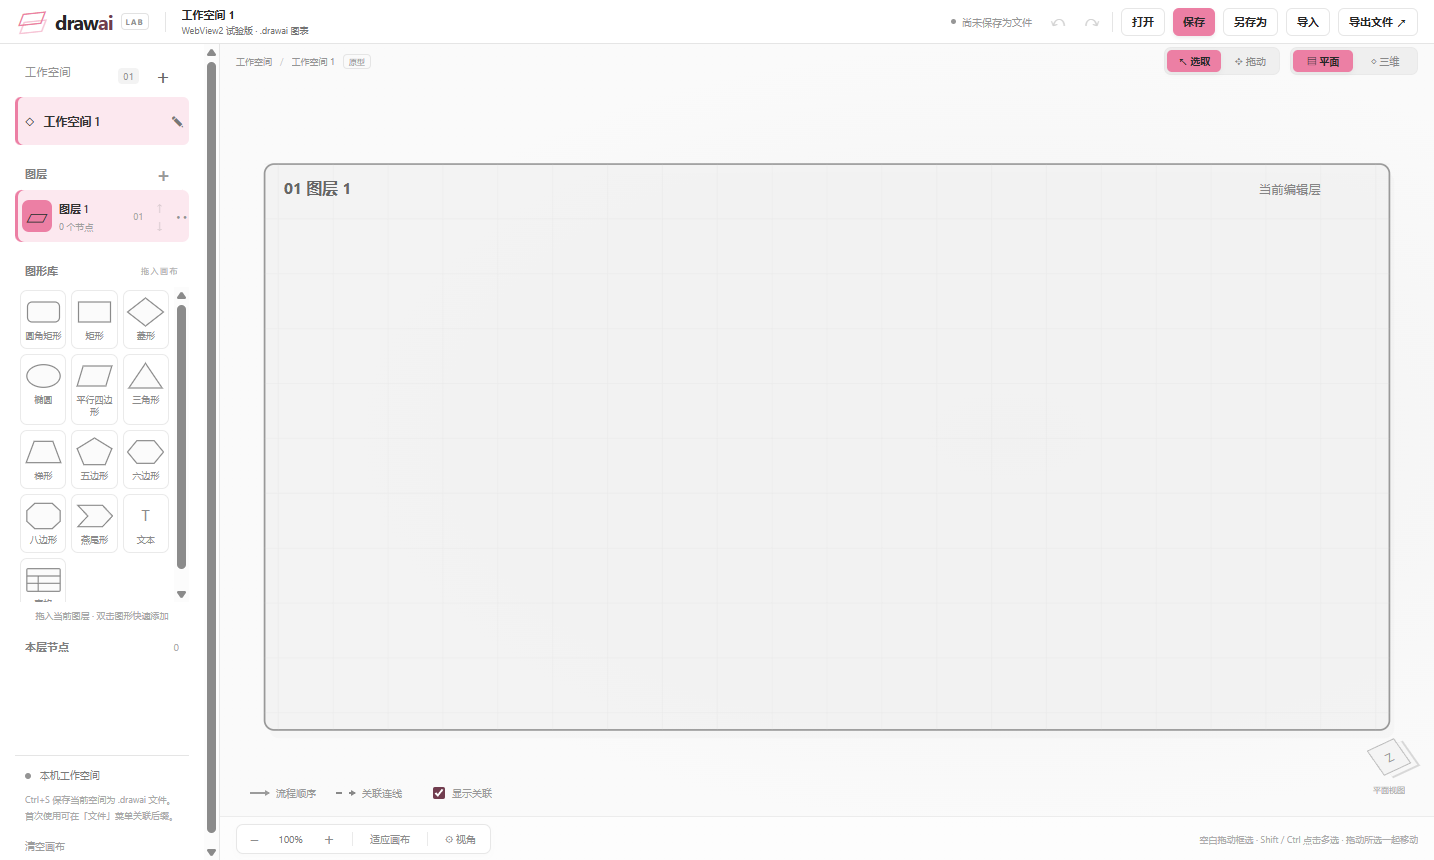
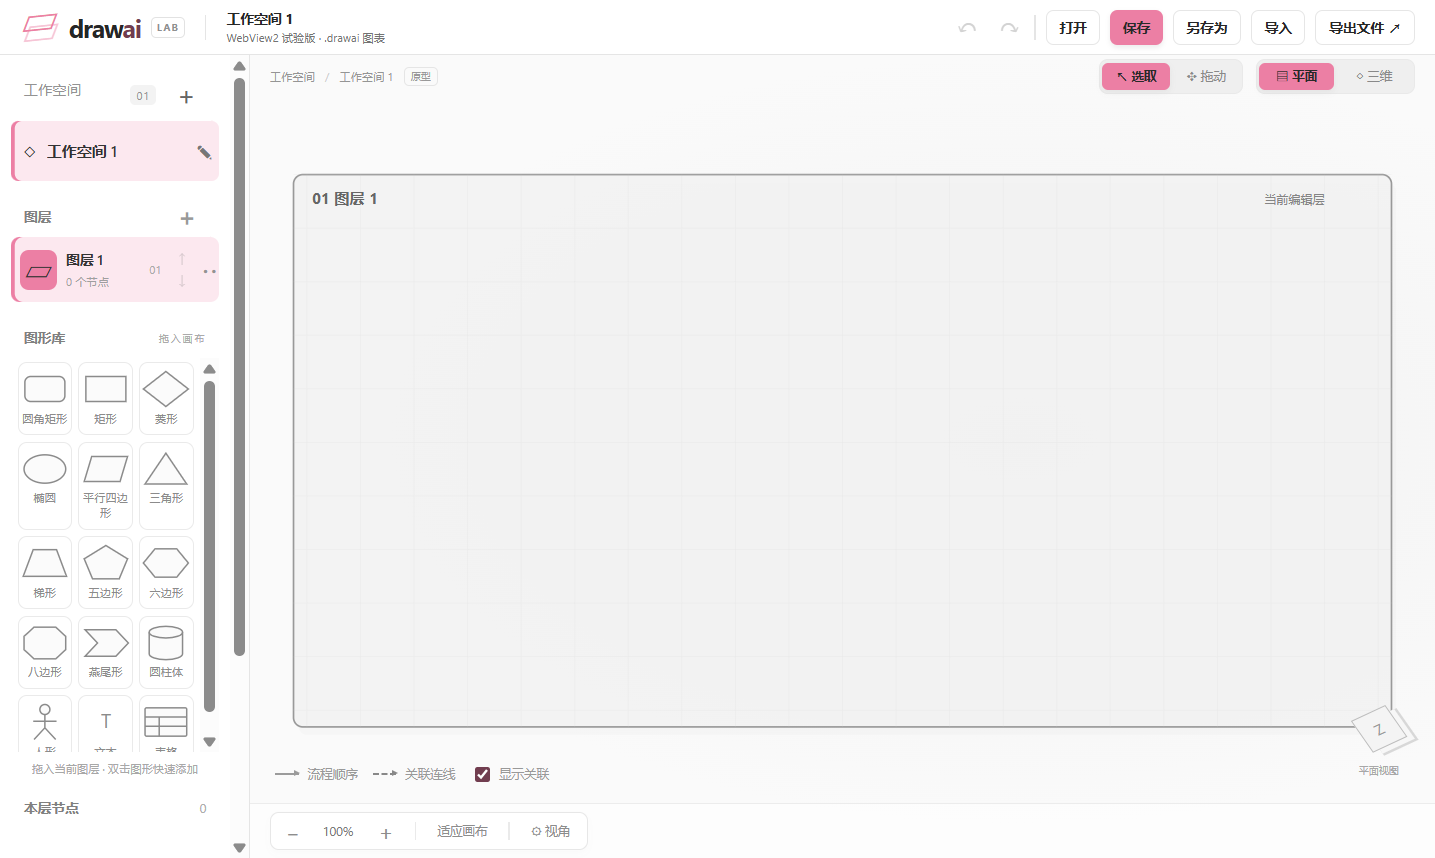
Add generic cylinder and actor shapes with editable geometry

diff --git a/src/scene.js b/src/scene.js
@@ -76,7 +76,7 @@ function wrap(text, limit = 17, maxLines = 2) {
   return lines;
 }
 const pt = p => p.x.toFixed(2) + ',' + p.y.toFixed(2);
-export const nodeSize = n => ({ w: (n.width ?? (n.shape === 'diamond' ? 260 : n.shape === 'ellipse' ? 210 : 200)) / 2, h: (n.height ?? (n.shape === 'diamond' ? 180 : n.shape === 'ellipse' ? 140 : 112)) / 2 });
+export const nodeSize = n => ({ w: (n.width ?? (n.shape === 'actor' ? 100 : n.shape === 'cylinder' ? 180 : n.shape === 'diamond' ? 260 : n.shape === 'ellipse' ? 210 : 200)) / 2, h: (n.height ?? (['actor', 'cylinder', 'diamond'].includes(n.shape) ? 180 : n.shape === 'ellipse' ? 140 : 112)) / 2 });
 export const portVector = port => ({ n: { x: 0, y: -1 }, e: { x: 1, y: 0 }, s: { x: 0, y: 1 }, w: { x: -1, y: 0 } }[port]);
 export function shapePolygon(node) {
   const { w, h } = nodeSize(node);
@@ -118,9 +118,17 @@ export function perimeterPoint(node, point) {
   };
   const polygon = vertices => vertices.forEach((p, i) => segment(p, vertices[(i + 1) % vertices.length]));
   const vertices = shapePolygon(node);
-  if (vertices) polygon(vertices);
+  if (node.shape === 'cylinder') {
+    const rim = h * .26;
+    segment({ x: -w, y: -h + rim }, { x: -w, y: h - rim });
+    segment({ x: w, y: -h + rim }, { x: w, y: h - rim });
+    for (const side of [-1, 1]) {
+      const cy = side * (h - rim), angle = Math.atan2((y - cy) / rim, x / w);
+      for (const t of [side < 0 ? clamp(angle, -Math.PI, 0) : clamp(angle, 0, Math.PI), 0, side * Math.PI]) candidates.push({ x: w * Math.cos(t), y: cy + rim * Math.sin(t) });
+    }
+  } else if (vertices) polygon(vertices);
   else {
-    const r = Math.min(w, h, node.kind === 'table' ? 8 : node.shape === 'rounded' ? 15 : node.shape === 'text' ? 3 : 2);
+    const r = Math.min(w, h, node.shape === 'actor' ? 0 : node.kind === 'table' ? 8 : node.shape === 'rounded' ? 15 : node.shape === 'text' ? 3 : 2);
     segment({ x: -w + r, y: -h }, { x: w - r, y: -h });
     segment({ x: w, y: -h + r }, { x: w, y: h - r });
     segment({ x: w - r, y: h }, { x: -w + r, y: h });
@@ -169,7 +177,7 @@ export function layerBounds(doc, id) {
     left: Math.min(-820, ...nodes.map(n => n.x - nodeSize(n).w - 55), ...tables.map(t => t.x - 100)),
     right: Math.max(820, ...nodes.map(n => n.x + nodeSize(n).w + 55), ...tables.map(t => t.x + t.width + 100)),
     top: Math.min(tables.length && !nodes.length ? -260 : -400, ...nodes.map(n => n.y - nodeSize(n).h - 65), ...tables.map(t => t.y - 100)),
-    bottom: Math.max(tables.length && !nodes.length ? 340 : 425, ...nodes.map(n => n.y + nodeSize(n).h + 65), ...tables.map(t => t.y + t.height + 80)),
+    bottom: Math.max(tables.length && !nodes.length ? 340 : 425, ...nodes.map(n => n.y + nodeSize(n).h + (n.shape === 'actor' ? 110 : 65)), ...tables.map(t => t.y + t.height + 80)),
   };
 }
 function plane(doc, layer, index, active) {
@@ -193,24 +201,31 @@ function nodeMarkup(n, selected, active, linked, connecting) {
   const variant = n.kind === 'result' ? n.title.startsWith('✓') ? 'success' : n.title.startsWith('×') ? 'warning' : 'neutral' : n.kind;
   const icon = { agent: '◈', input: '▧', decision: '◇', success: '✓', warning: '!', neutral: '↻' }[variant];
   const vertices = shapePolygon(n);
+  const rim = h * .26;
   const back = {
     rounded: `<rect class="node-back" x="${-w}" y="${-h}" width="${w * 2}" height="${h * 2}" rx="15"/>`,
     rectangle: `<rect class="node-back" x="${-w}" y="${-h}" width="${w * 2}" height="${h * 2}" rx="2"/>`,
     diamond: `<path class="node-back" d="M0 ${-h}L${w} 0L0 ${h}L${-w} 0Z"/>`,
     ellipse: `<ellipse class="node-back" rx="${w}" ry="${h}"/>`,
+    cylinder: `<path class="node-back" d="M${-w} ${-h + rim}A${w} ${rim} 0 0 1 ${w} ${-h + rim}V${h - rim}A${w} ${rim} 0 0 1 ${-w} ${h - rim}Z"/>`,
+    actor: `<rect class="node-back actor-hit" x="${-w}" y="${-h}" width="${w * 2}" height="${h * 2}" style="fill:transparent;stroke:none;filter:none"/>`,
     parallelogram: `<path class="node-back" d="M${-w * .75} ${-h}H${w}L${w * .75} ${h}H${-w}Z"/>`,
     text: `<rect class="node-back text-back" x="${-w}" y="${-h}" width="${w * 2}" height="${h * 2}" rx="3"/>`,
   }[n.shape] || (vertices ? `<path class="node-back" d="M${vertices.map(pt).join('L')}Z"/>` : '');
+  const detail = n.shape === 'cylinder' ? `<path class="node-back" style="fill:none;filter:none;pointer-events:none" d="M${-w} ${-h + rim}A${w} ${rim} 0 0 0 ${w} ${-h + rim}"/>`
+    : n.shape === 'actor' ? `<ellipse class="node-back" style="filter:none;pointer-events:none" cx="0" cy="${-.8 * h}" rx="${.36 * w}" ry="${.2 * h}"/><path class="node-back" style="fill:none;filter:none;pointer-events:none" d="M0 ${-.6 * h}V${.35 * h}M${-w} ${-.35 * h}H${w}M${-w} ${h}L0 ${.35 * h}L${w} ${h}"/>` : '';
   const compact = ['diamond', 'ellipse', 'parallelogram', 'text'].includes(n.shape);
-  const content = n.kind === 'shape'
+  const content = n.shape === 'actor'
+    ? textLines(n.title, 0, 0, 7, 'node-title centered', 25) + (n.description ? textLines(n.description, 0, 27, 7, 'node-description centered', 25) : '')
+    : n.kind === 'shape'
     ? textLines(n.title, 0, n.description ? -10 : 8, 7, 'node-title centered', 25) + (n.description ? textLines(n.description, 0, 20, 7, 'node-description centered', 25) : '')
     : compact
     ? '<text class="node-title centered" x="0" y="-12">' + esc(wrap(n.title, 7, 1)[0]) + '</text>' + textLines(n.description, 0, 16, n.shape === 'diamond' ? 5 : 6.3, 'node-description centered', 25)
     : '<text class="node-icon" x="-81" y="-23">' + icon + '</text><text class="node-title" x="-48" y="-23">' + esc(wrap(n.title, 5.7, 1)[0]) + '</text>' + textLines(n.description, -80, 9, 6.7, 'node-description', 26);
-  const base = n.shape === 'diamond' ? { w: 130, h: 90 } : n.shape === 'ellipse' ? { w: 105, h: 70 } : { w: 100, h: 56 };
+  const base = nodeSize({ shape: n.shape });
   const textScale = Math.min(1, w / base.w, h / base.h);
-  const boundary = back.replace(/class="[^"]*"/, 'class="connection-boundary" data-free-port="true"');
-  return '<g transform="translate(' + n.x + ',' + n.y + ')" class="diagram-node ' + variant + (selected ? ' selected' : '') + (active ? '' : ' dimmed') + (connecting ? ' connecting' : '') + '" data-node="' + esc(n.id) + '" data-object="' + esc(n.id) + '" tabindex="0" role="button" aria-label="' + esc(n.title) + '，' + esc(n.description) + '"><title>' + esc(n.title) + '：' + esc(n.description) + '。内部拖动移动，边缘拖出连线，双击编辑。</title>' + back + boundary + `<g class="node-text" transform="scale(${textScale})">` + content + '</g>' + (linked ? '<circle class="linked-dot" cx="0" cy="' + h + '" r="5"/>' : '') + diagramControls(w, h, selected) + '</g>';
+  const boundary = n.shape === 'actor' ? `<rect class="connection-boundary" data-free-port="true" x="${-w}" y="${-h}" width="${w * 2}" height="${h * 2}"/>` : back.replace(/class="[^"]*"/, 'class="connection-boundary" data-free-port="true"');
+  return '<g transform="translate(' + n.x + ',' + n.y + ')" class="diagram-node ' + variant + (selected ? ' selected' : '') + (active ? '' : ' dimmed') + (connecting ? ' connecting' : '') + '" data-node="' + esc(n.id) + '" data-object="' + esc(n.id) + '" tabindex="0" role="button" aria-label="' + esc(n.title) + '，' + esc(n.description) + '"><title>' + esc(n.title) + '：' + esc(n.description) + '。内部拖动移动，边缘拖出连线，双击编辑。</title>' + back + detail + boundary + `<g class="node-text" transform="${n.shape === 'actor' ? 'translate(0,' + (h + 30) + ') ' : ''}scale(${textScale})">` + content + '</g>' + (linked ? '<circle class="linked-dot" cx="0" cy="' + h + '" r="5"/>' : '') + diagramControls(w, h, selected) + '</g>';
 }
 function edgeMarkup(e, a, b, d, label, selected, active, transform = '') {
   const dashed = e.style === 'dashed';

diff --git a/tests/browser/new-shapes.spec.js b/tests/browser/new-shapes.spec.js
@@ -1,0 +1,32 @@
+import { test, expect } from './fixtures.mjs';
+const stored = page => page.evaluate(() => JSON.parse(localStorage.getItem('drawai.document.v1')));
+const point = (page,id,x,y) => page.locator(`[data-node="${id}"]`).evaluate(async(el,p)=>{
+  const {elementScreenPoint}=await import('/src/scene.js'); const q=elementScreenPoint(el,p); return {x:q.x,y:q.y};
+},{x,y});
+async function drag(page,a,b){await page.mouse.move(a.x,a.y);await page.mouse.down();await page.mouse.move(b.x,b.y,{steps:10});await page.mouse.up();}
+
+for(const mode of ['flat','spatial']) test(`cylinder and actor edit, resize, move and connect in ${mode}`,async({page})=>{
+  await page.goto('/');
+  await page.evaluate(()=>localStorage.setItem('drawai.document.v1',JSON.stringify({version:3,layers:[{id:'flow',name:'图形'}],nodes:[],tables:[],edges:[]})));
+  await page.reload(); await page.locator('#view-flat').click();
+  for(const shape of ['cylinder','actor']){
+    await page.locator(`[data-template="${shape}"]`).dblclick();
+    await page.locator('#inline-node-title').fill(shape==='actor'?'自由人形':'自由圆柱');
+    await page.locator('#inline-node-title').press('Enter');
+  }
+  const before=await stored(page),[cylinder,actor]=before.nodes;
+  await expect(page.locator(`[data-node="${cylinder.id}"] > path.node-back`)).toHaveCount(2);
+  await expect(page.locator(`[data-node="${actor.id}"] > ellipse`)).toHaveCount(1);
+  await page.locator(`#view-${mode}`).click();
+  await page.locator(`[data-list-node="${actor.id}"]`).click();
+  await drag(page,await point(page,actor.id,50,90),await point(page,actor.id,80,120));
+  let saved=await stored(page);expect(saved.nodes[1].width).toBe(130);expect(saved.nodes[1].height).toBe(210);
+  await page.locator('#undo').click();
+  await drag(page,await point(page,actor.id,0,0),await point(page,actor.id,70,0));
+  saved=await stored(page);expect(saved.nodes[1].x).toBe(actor.x+70);
+  await page.locator(`[data-list-node="${cylinder.id}"]`).click();
+  await drag(page,await point(page,cylinder.id,mode==='spatial'?45:127,mode==='spatial'?-66.6-23.4*Math.sqrt(.75):0),await point(page,actor.id,-50,0));
+  saved=await stored(page);expect(saved.edges).toHaveLength(1);expect(saved.edges[0].source).toBe(cylinder.id);expect(saved.edges[0].target).toBe(actor.id);
+  await page.reload();expect((await stored(page)).nodes.map(n=>n.shape)).toEqual(['cylinder','actor']);
+  await expect(page.locator('[data-node]')).toHaveCount(2);
+});

diff --git a/src/model.js b/src/model.js
@@ -11,7 +11,7 @@ export function validateDiagramFile(value) {
   return { format: 'drawai', version: 1, workspaceName: value.workspaceName.trim(), document, view };
 }
 export const kinds = { shape: '普通图形', agent: 'Agent', input: '输入', decision: '判断', result: '结果' };
-export const shapes = { rounded: '圆角矩形', rectangle: '矩形', diamond: '菱形', ellipse: '椭圆', parallelogram: '平行四边形', triangle: '三角形', trapezoid: '梯形', pentagon: '五边形', hexagon: '六边形', octagon: '八边形', chevron: '燕尾形', text: '文本' };
+export const shapes = { rounded: '圆角矩形', rectangle: '矩形', diamond: '菱形', ellipse: '椭圆', parallelogram: '平行四边形', triangle: '三角形', trapezoid: '梯形', pentagon: '五边形', hexagon: '六边形', octagon: '八边形', chevron: '燕尾形', cylinder: '圆柱体', actor: '人形', text: '文本' };
 export const defaultShape = kind => ({ shape: 'rounded', agent: 'rounded', input: 'rectangle', decision: 'diamond', result: 'ellipse' }[kind]);
 export const defaultLayers = () => [{ id: 'flow', name: '业务流程' }, { id: 'data', name: '共享数据' }];
 export const clone = value => structuredClone(value);

diff --git a/src/app.js b/src/app.js
@@ -518,6 +518,8 @@ const templates = [
   { id: 'hexagon', svg: '<path d="M17 7H43L57 24L43 41H17L3 24Z"/>' },
   { id: 'octagon', svg: '<path d="M17 5H43L55 16V32L43 43H17L5 32V16Z"/>' },
   { id: 'chevron', svg: '<path d="M5 8H42L57 24L42 40H5L20 24Z"/>' },
+  { id: 'cylinder', svg: '<path d="M10 11A20 7 0 0 1 50 11V37A20 7 0 0 1 10 37Z"/><path d="M10 11A20 7 0 0 0 50 11" fill="none"/>' },
+  { id: 'actor', svg: '<circle cx="30" cy="9" r="6"/><path d="M30 15V31M16 23H44M17 45L30 31L43 45" fill="none"/>' },
   { id: 'text', svg: '<text x="30" y="31" text-anchor="middle" stroke="none" fill="currentColor" font-size="24">T</text>' },
   { id: 'table', label: '表格', svg: '<rect x="5" y="7" width="50" height="34" rx="2"/><path d="M5 18H55M5 29H55M22 18V41"/>' },
 ].map(t => ({ ...t, kind: 'shape', shape: t.id, title: shapes[t.id], label: t.label || shapes[t.id] }));

diff --git a/desktop-webview/Program.cs b/desktop-webview/Program.cs
@@ -17,8 +17,8 @@ using Microsoft.Web.WebView2.Core;
 using Microsoft.Web.WebView2.WinForms;
 using Microsoft.Win32;
 
-[assembly: System.Reflection.AssemblyVersion("0.5.0.0")]
-[assembly: System.Reflection.AssemblyFileVersion("0.5.0.0")]
+[assembly: System.Reflection.AssemblyVersion("0.6.0.0")]
+[assembly: System.Reflection.AssemblyFileVersion("0.6.0.0")]
 
 namespace DrawAI.WebViewEdition {
 static class Program {

diff --git a/README.md b/README.md
@@ -16,11 +16,15 @@ Windows 免安装运行，图表保存在本机，无需登录。默认只有一
 
 ![平面流程编辑](docs/images/flat.png)
 
+圆柱体与人形：普通图形，可自由命名、缩放、移动和连接。
+
+![圆柱体与人形](docs/images/shapes.png)
+
 首次启动是空白画布。顶部原生「主题」菜单可以切换强调色，黑白灰画布保持不变，下图为天空蓝主题。
 
 ![空白画布与天空蓝主题](docs/images/theme-blue.png)
 
-> 截图已更新至 0.5.0。前两张为网页版截图，使用临时构造的演示内容，仅用于展示操作效果，不随免安装程序分发；主题截图来自 WebView2 桌面版。
+> 截图已更新至 0.6.0。前三张为网页版截图，使用临时构造的演示内容，仅用于展示操作效果，不随免安装程序分发；主题截图来自 WebView2 桌面版。
 
 ## 在线试用
 
@@ -34,8 +38,8 @@ Windows 免安装运行，图表保存在本机，无需登录。默认只有一
 
 | 版本 | 下载 | 适合情况 |
 | --- | --- | --- |
-| **WebView2 0.5.0（推荐）** | [Windows x64 ZIP，约 380 KiB](https://github.com/QIU-SHEN/DrawAI/releases/download/v0.5.0/DrawAI-WebView2-0.5.0-Windows-x64.zip) | 复用系统 WebView2 Runtime，包体很小 |
-| Electron 0.5.0 | [Windows x64 ZIP，约 151 MiB](https://github.com/QIU-SHEN/DrawAI/releases/download/v0.5.0/DrawAI-0.5.0-Windows-x64.zip) | 自带浏览器内核，适合不便准备 WebView2 环境的电脑 |
+| **WebView2 0.6.0（推荐）** | [Windows x64 ZIP，约 381 KiB](https://github.com/QIU-SHEN/DrawAI/releases/download/v0.6.0/DrawAI-WebView2-0.6.0-Windows-x64.zip) | 复用系统 WebView2 Runtime，包体很小 |
+| Electron 0.6.0 | [Windows x64 ZIP，约 151 MiB](https://github.com/QIU-SHEN/DrawAI/releases/download/v0.6.0/DrawAI-0.6.0-Windows-x64.zip) | 自带浏览器内核，适合不便准备 WebView2 环境的电脑 |
 
 1. 下载 ZIP，**完整解压**到有写入权限的文件夹。
 2. 运行 `DrawAI-WebView2.exe` 或 `DrawAI.exe`。不要只复制 EXE，也不要直接在压缩包里运行。
@@ -51,7 +55,7 @@ WebView2 版需要 Windows 10/11 x64、.NET Framework 4.6.2+ 和 [Microsoft Edge
 
 - **空间画布**：平面逐层编辑，三维查看全部图层；空白拖动旋转，支持连续 360°，滚轮缩放。
 - **工作空间与图层**：新增、重命名工作空间；新增、删除图层和调整上下顺序。
-- **图形编辑**：12 种普通形状/文本，拖拽添加、移动、调整尺寸；双击或 `F2` 直接编辑文字。图形不绑定特定业务功能。
+- **图形编辑**：14 种普通形状/文本，拖拽添加、移动、调整尺寸；双击或 `F2` 直接编辑文字。图形不绑定特定业务功能。
 - **普通表格**：可添加多张，自定义标题、列名和单元格，支持增删行列、移动、缩放和连线。
 - **自由连线**：从图形或表格边缘拉出箭头；连接点可自由放置，四边中心点吸附；双击连线编辑分支文字。
 - **多选与拖动**：「选取」模式支持框选、组合移动和删除；「拖动」模式仍能操作单个图形，空白拖动控制画布。`Shift` / `Ctrl` 点击多选。
